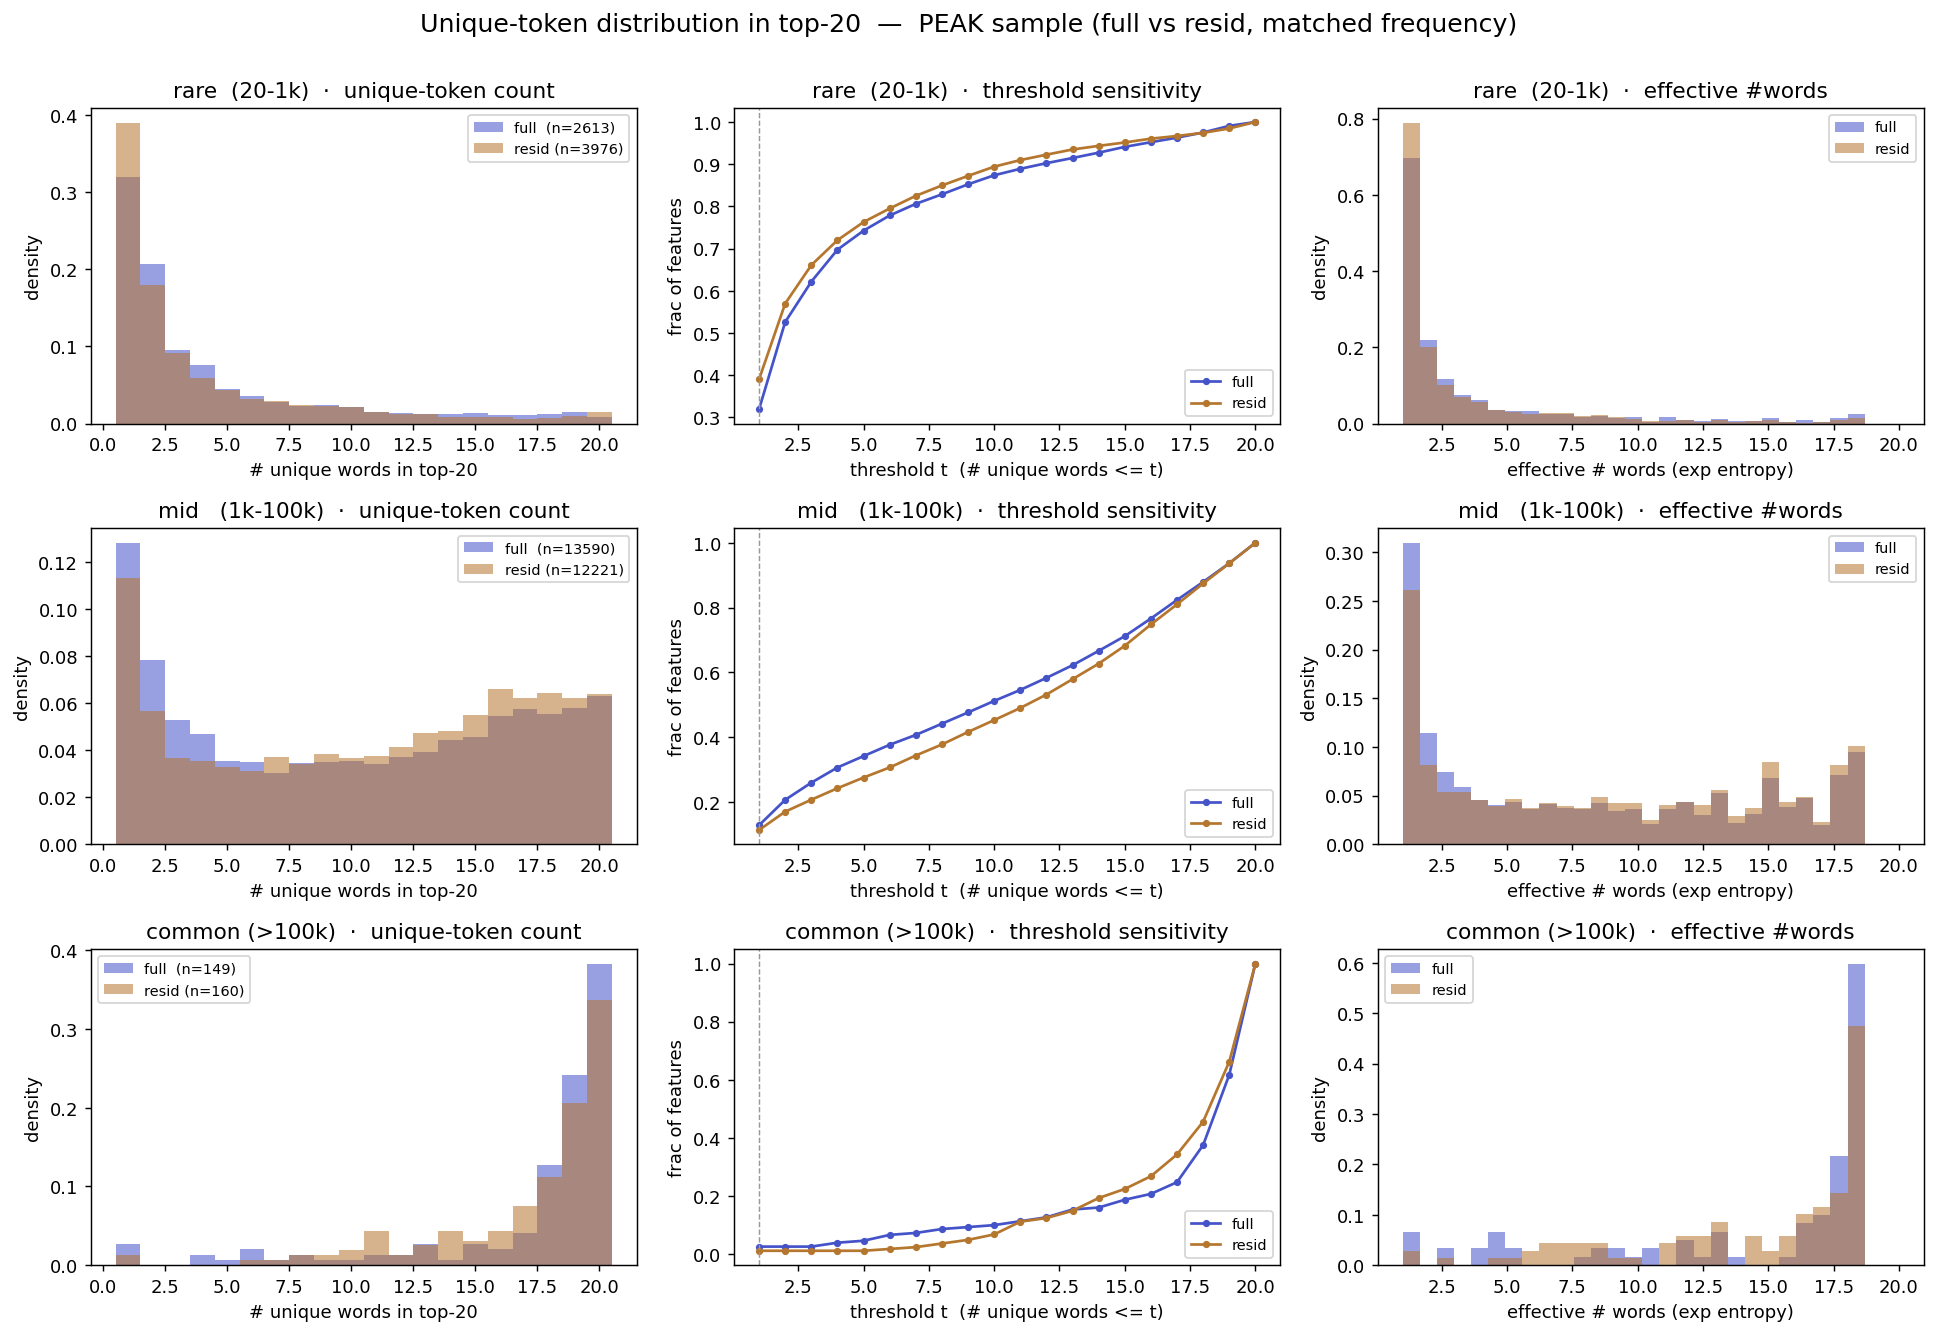
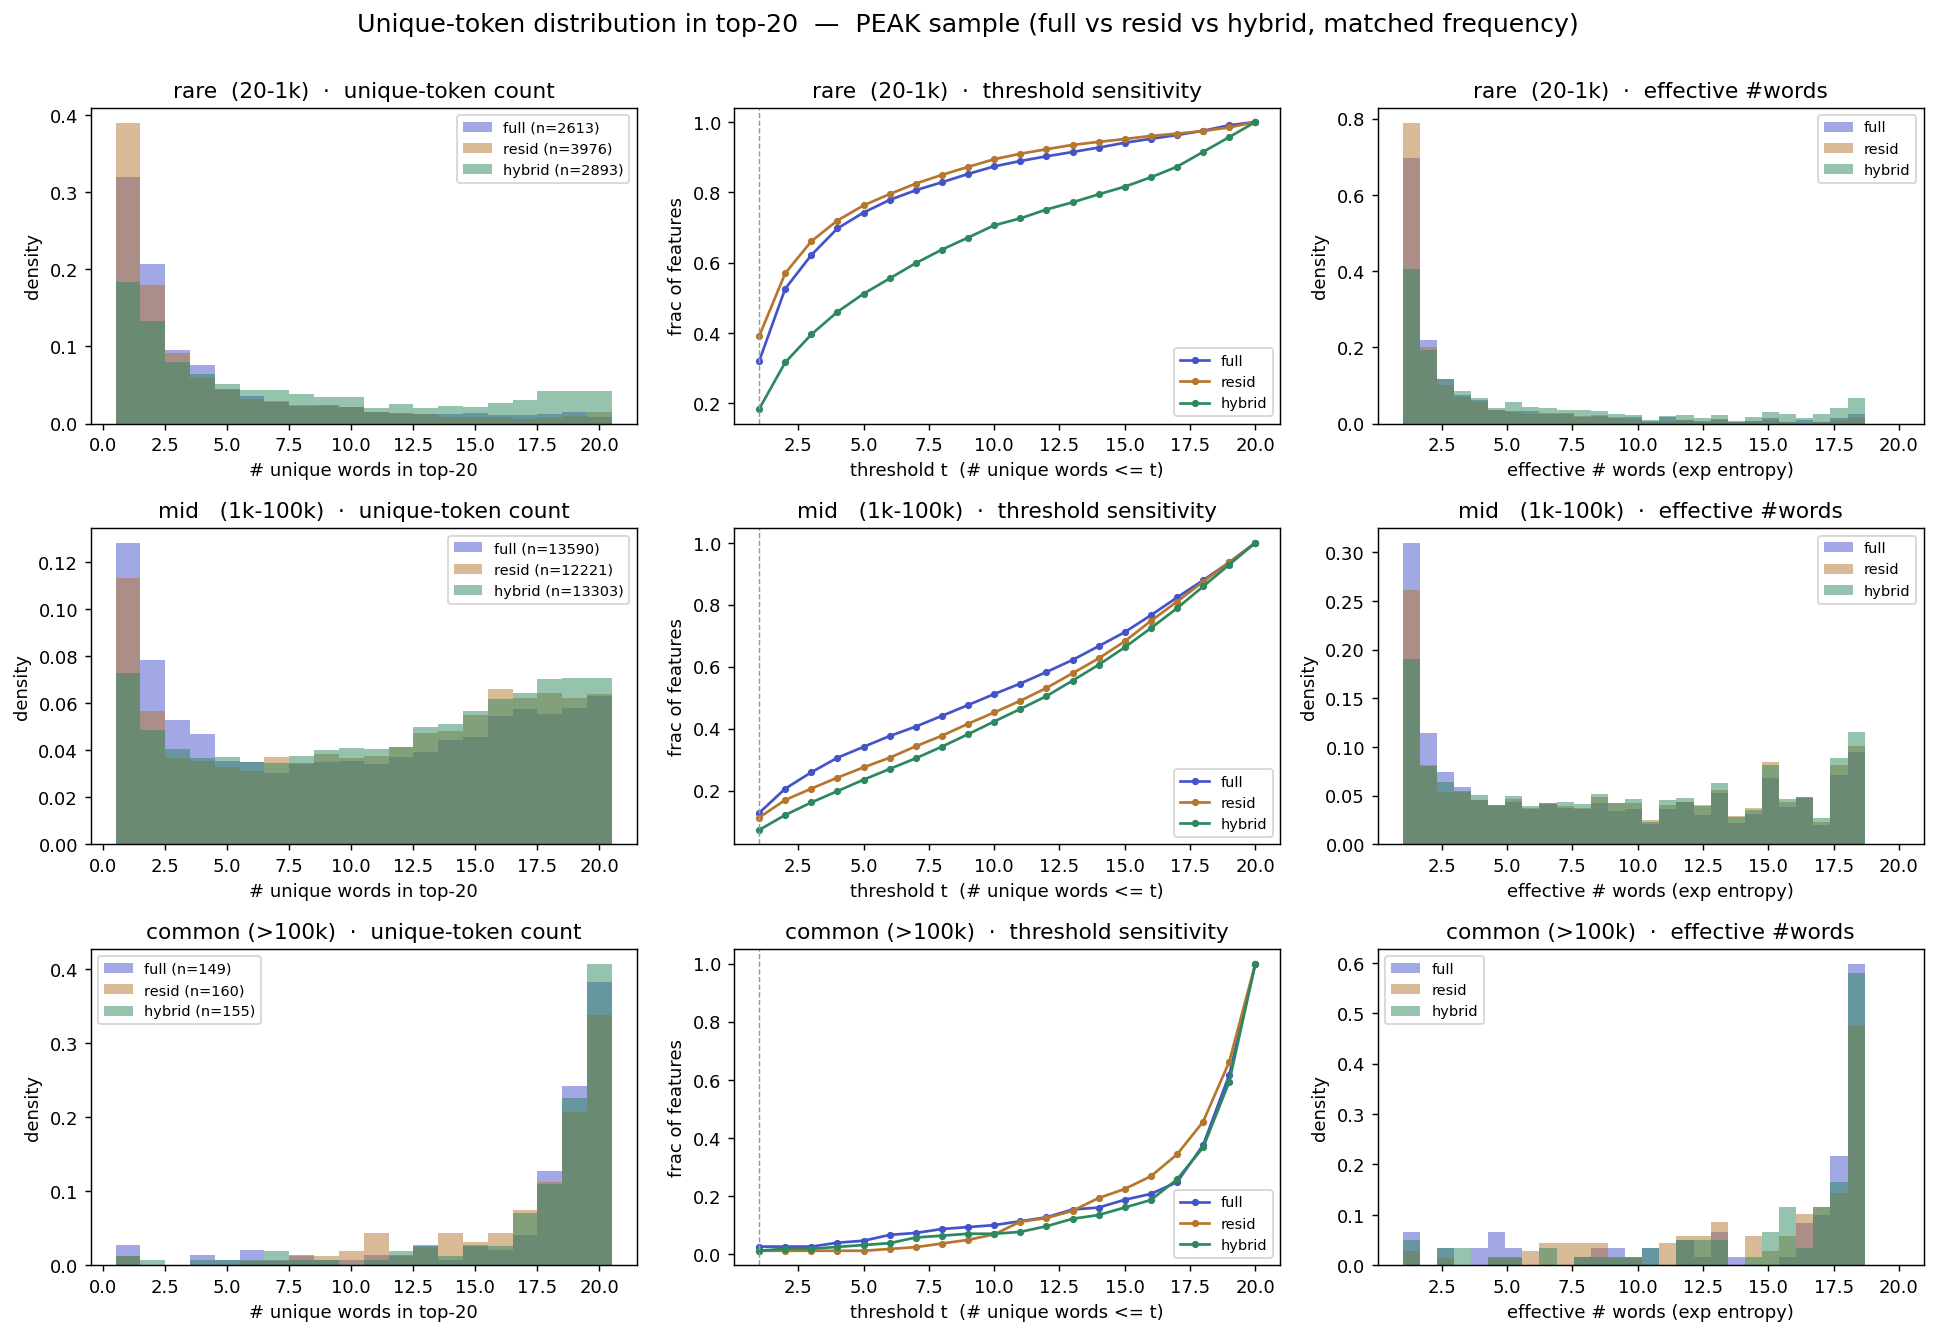
updated dashboard

diff --git a/SAE_linearmaps/dashboard.py b/SAE_linearmaps/dashboard.py
@@ -9,6 +9,7 @@ Run this instead of re-running the full 4M eval; feature selection reads the
 per-feature stats saved by eval_trivial.py (stats_*.pt).
 """
 import glob
+import os
 import torch as t
 from transformers import AutoTokenizer
 from sae_lens import BatchTopKTrainingSAE, BatchTopKTrainingSAEConfig
@@ -16,7 +17,9 @@ from sae_lens import BatchTopKTrainingSAE, BatchTopKTrainingSAEConfig
 CACHE_DIR   = "/workspace/sae_cache_layer13"
 FULL_PATH   = f"{CACHE_DIR}/sae_full_final.pt"
 RESID_PATH  = f"{CACHE_DIR}/sae_resid_final.pt"
+HYBRID_PATH = f"{CACHE_DIR}/sae_hybrid_final.pt"
 P_PATH      = f"{CACHE_DIR}/P.pt"
+P_HYBRID_PATH = f"{CACHE_DIR}/P_hybrid.pt"
 MODEL_NAME  = "google/gemma-2-2b"
 N_TOKENS    = 1_000_000     # tokens to scan for top activations (small -> fast)
 TOPK        = 20          # top activating examples to show
@@ -25,7 +28,9 @@ SHOW_LOGITS = False        # load the model's unembedding for logit effects (~5 
 device = t.device("cuda" if t.cuda.is_available() else "cpu")
 
 tokenizer = AutoTokenizer.from_pretrained(MODEL_NAME)
-P = t.load(P_PATH, map_location=device)   # (V, 2304) per-token linear prediction
+P = t.load(P_PATH, map_location=device)   # (V, 2304) frozen greedy per-token prediction (used by resid)
+# jointly-trained map, only present once hybrid has been trained (used by hybrid)
+P_hybrid = t.load(P_HYBRID_PATH, map_location=device) if os.path.exists(P_HYBRID_PATH) else None
 
 def load_sae(path):
     ckpt = t.load(path, weights_only=False)
@@ -36,6 +41,15 @@ def load_sae(path):
 
 sae_full,  scale_full  = load_sae(FULL_PATH)
 sae_resid, scale_resid = load_sae(RESID_PATH)
+HAVE_HYBRID = os.path.exists(HYBRID_PATH) and P_hybrid is not None
+if HAVE_HYBRID:
+    sae_hybrid, scale_hybrid = load_sae(HYBRID_PATH)
+
+def sae_input(hh, tt, mode):
+    """The activation the SAE encodes, per mode: full=h, resid=h-P (frozen), hybrid=h-P_hybrid (trained)."""
+    if mode == "resid":  return hh - P[tt]
+    if mode == "hybrid": return hh - P_hybrid[tt]
+    return hh
 
 # Unembedding for logit effects (optional). Direct logit attribution: W_dec[f] @ W_U.
 W_U = None
@@ -69,7 +83,7 @@ def dashboard(sae, scale, mode, feat_ids, n_tokens=N_TOKENS, bs=8192):
             for start in range(0, hc.shape[0], bs):
                 hh = hc[start:start+bs].float().to(device)
                 tt = tc[start:start+bs].to(device)
-                x = (hh - P[tt]) if mode == "resid" else hh
+                x = sae_input(hh, tt, mode)
                 a = sae.encode(x / scale)[:, fids]       # only the chosen features
                 acts_parts.append(a.cpu()); toks_parts.append(tt.cpu())
                 seen += hh.shape[0]
@@ -121,7 +135,7 @@ def find_word_feature(sae, scale, mode, words, n_tokens=500_000, topn=3, max_rat
             for start in range(0, hc.shape[0], bs):
                 hh = hc[start:start+bs].float().to(device)
                 tt = tc[start:start+bs].to(device)
-                x = (hh - P[tt]) if mode == "resid" else hh
+                x = sae_input(hh, tt, mode)
                 a = sae.encode(x / scale)              # (b, F)
                 fire += (a > 0).sum(0)
                 m = t.isin(tt, target)                 # positions sitting on the target word
@@ -170,7 +184,7 @@ def top_token_of(sae, scale, mode, feat_ids, n_tokens=500_000, bs=8192):
             hc = t.cat(t.load(lf), dim=0); tc = t.cat(t.load(tf), dim=0)
             for start in range(0, hc.shape[0], bs):
                 hh = hc[start:start+bs].float().to(device); tt = tc[start:start+bs].to(device)
-                x = (hh - P[tt]) if mode == "resid" else hh
+                x = sae_input(hh, tt, mode)
                 a = sae.encode(x / scale)[:, fids]           # (b, nf)
                 mx, arg = a.max(dim=0)                        # per feature: strongest activation this batch
                 upd = mx > best_val
@@ -194,7 +208,7 @@ def best_feature_per_word(sae, scale, mode, word_tokid_sets, dense_mask, n_token
             hc = t.cat(t.load(lf), dim=0); tc = t.cat(t.load(tf), dim=0)
             for start in range(0, hc.shape[0], bs):
                 hh = hc[start:start+bs].float().to(device); tt = tc[start:start+bs].to(device)
-                x = (hh - P[tt]) if mode == "resid" else hh
+                x = sae_input(hh, tt, mode)
                 a = sae.encode(x / scale)
                 for wi, tg in enumerate(tgts):
                     m = t.isin(tt, tg)
@@ -229,6 +243,9 @@ def _dense(freq):
 
 _SAES  = {"full": (sae_full, scale_full), "resid": (sae_resid, scale_resid)}
 _STATS = {"full": f"{CACHE_DIR}/stats_full.pt", "resid": f"{CACHE_DIR}/stats_resid.pt"}
+if HAVE_HYBRID:
+    _SAES["hybrid"]  = (sae_hybrid, scale_hybrid)
+    _STATS["hybrid"] = f"{CACHE_DIR}/stats_hybrid.pt"
 
 def matched_pairs(src, tgt, n=100, n_tokens=2_000_000, min_occ=50, show_rows=False):
     """Sample single-token features from `src` SAE, find each's counterpart in `tgt` SAE, and
@@ -272,7 +289,7 @@ def binned_dashboard(sae, scale, mode, feat_ids, n_tokens=2_000_000, n_bins=5, e
             hc = t.cat(t.load(lf), dim=0); tc = t.cat(t.load(tf), dim=0)
             for start in range(0, hc.shape[0], bs):
                 hh = hc[start:start+bs].float().to(device); tt = tc[start:start+bs].to(device)
-                x = (hh - P[tt]) if mode == "resid" else hh
+                x = sae_input(hh, tt, mode)
                 a = sae.encode(x / scale)[:, fids]
                 acts_parts.append(a.cpu()); toks_parts.append(tt.cpu())
                 seen += hh.shape[0]
@@ -296,8 +313,21 @@ def binned_dashboard(sae, scale, mode, feat_ids, n_tokens=2_000_000, n_bins=5, e
             print(f"  bin {bi} act[{vals[ch[-1]].item():5.1f}-{vals[ch[0]].item():5.1f}] "
                   f"n={len(ch):<6} modal {mf:.2f}  distinct {ndist:<4} e.g. {eg}")
 
-# run on a few single-token resid features: do they stay single-token down the bins?
-sr = t.load(f"{CACHE_DIR}/stats_resid.pt")
-st_feats = (sr["alive"] & (sr["nd"] == 1)).nonzero().squeeze(1)
-sel = st_feats[t.linspace(0, len(st_feats) - 1, 6).long()].tolist()
-binned_dashboard(sae_resid, scale_resid, "resid", sel)
+# --- eyeball HYBRID features: are the (broader) hybrid features real context concepts? ---
+# Pick BROAD hybrid features (weighted distinct-words nd >= 10) in the 1k-10k firing-frequency band
+# -- the band where hybrid's triviality reduction vs full was largest -- and print their top
+# activating examples in context. If they read as coherent concepts (not mush), the reconstruction
+# win came with genuinely better features.
+if HAVE_HYBRID:
+    sh = t.load(f"{CACHE_DIR}/stats_hybrid.pt")
+    band = sh["alive"] & (sh["freq"] >= 1000) & (sh["freq"] < 10000) & (sh["nd"] >= 10)
+    sel = band.nonzero().squeeze(1)
+    sel = sel[t.linspace(0, len(sel) - 1, 6).long()].tolist()   # 6 spread across the band
+    dashboard(sae_hybrid, scale_hybrid, "hybrid", sel)          # top activating examples per feature
+    binned_dashboard(sae_hybrid, scale_hybrid, "hybrid", sel)   # behavior across activation strength
+else:
+    # fallback (no hybrid yet): the original single-token resid check
+    sr = t.load(f"{CACHE_DIR}/stats_resid.pt")
+    st_feats = (sr["alive"] & (sr["nd"] == 1)).nonzero().squeeze(1)
+    sel = st_feats[t.linspace(0, len(st_feats) - 1, 6).long()].tolist()
+    binned_dashboard(sae_resid, scale_resid, "resid", sel)